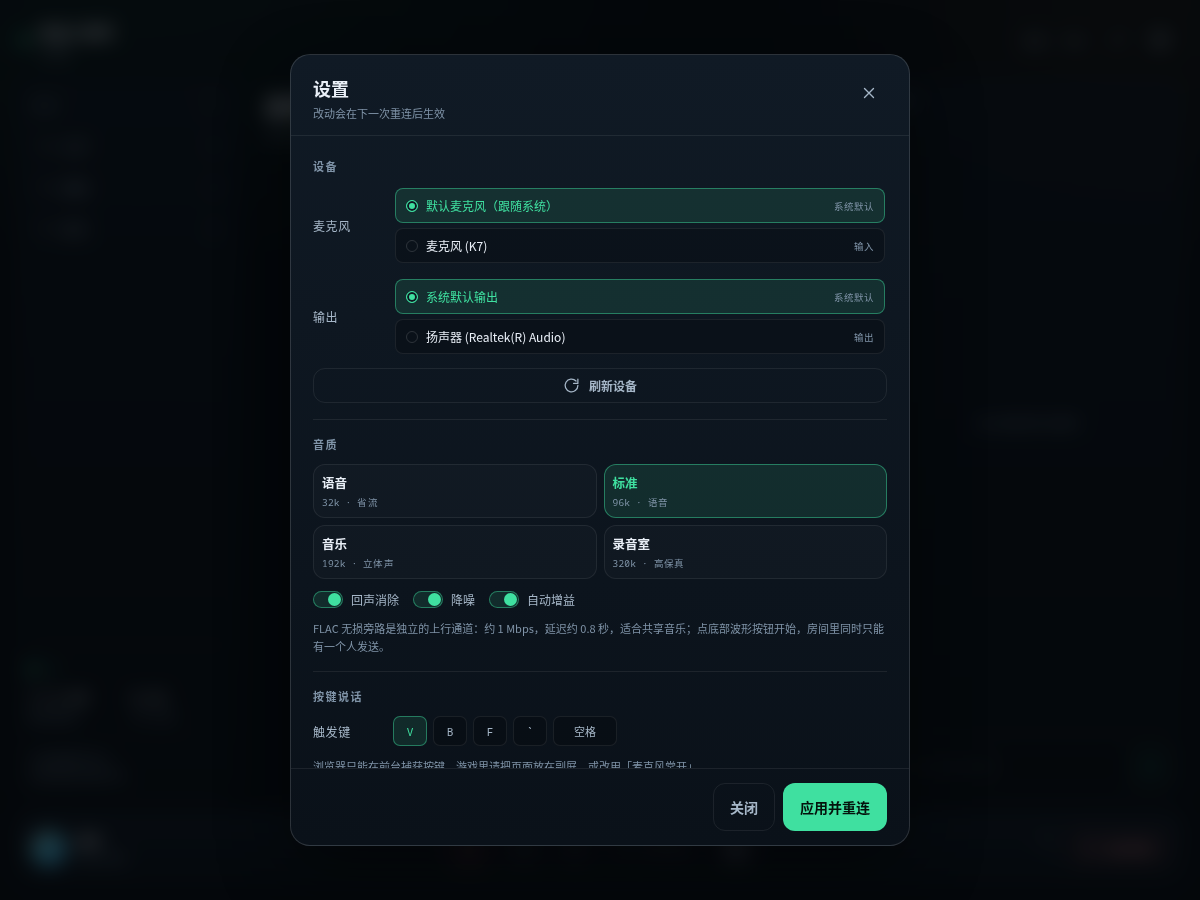
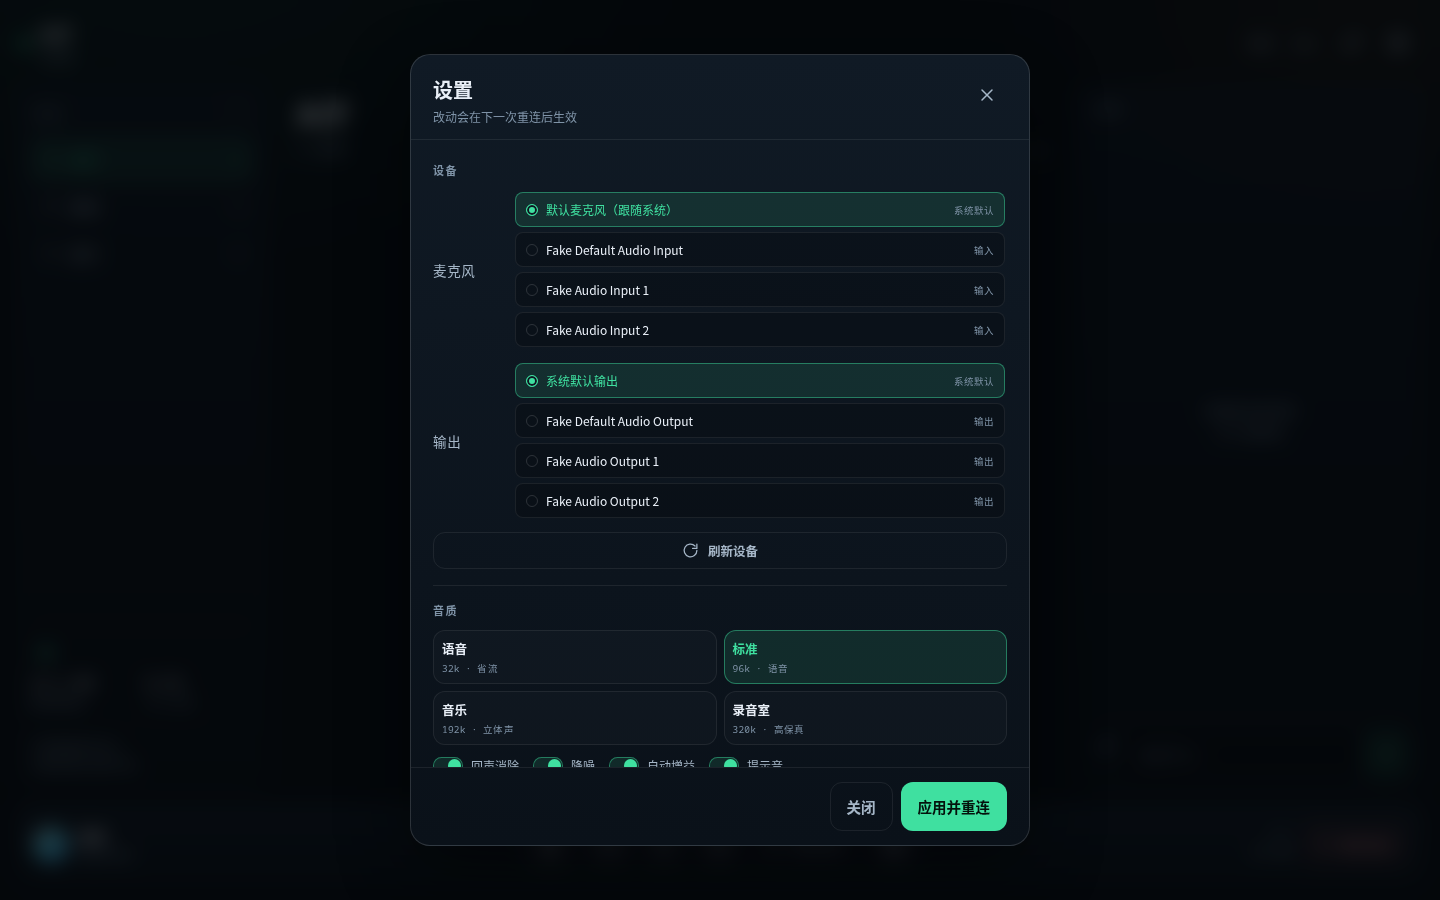
feat: add synthesized join and leave cues

diff --git a/web/app.js b/web/app.js
@@ -39,6 +39,7 @@ const app = {
     ec: store.get('ec', true),
     ns: store.get('ns', true),
     agc: store.get('agc', true),
+    sounds: store.get('sounds', true),
     screenFps: store.get('screenFps', 30),
     screenHeight: store.get('screenHeight', 1080),
     screenBitrate: store.get('screenBitrate', 4000),
@@ -479,6 +480,7 @@ function syncHardwareToggles() {
   $('#ec-toggle').checked = !!app.settings.ec;
   $('#ns-toggle').checked = !!app.settings.ns;
   $('#agc-toggle').checked = !!app.settings.agc;
+  $('#sounds-toggle').checked = !!app.settings.sounds;
   renderPttKeys();
 }
 
@@ -944,6 +946,7 @@ async function handleRoomJoined(msg) {
   $('#roomview').classList.remove('hidden');
   app.pendingRoomName = '';
   app.pendingRoomLocked = false;
+  playCue('enter');
   $('#room-confirm').classList.add('hidden');
   $('#room-empty').classList.add('hidden');
   $('#channels').classList.remove('open');
@@ -1048,6 +1051,7 @@ async function leaveRoom({ quiet = false } = {}) {
 }
 
 function logout() {
+  playCue('leave');
   resetScreen();
   app.manualClose = true;
   clearTimeout(app.reconnectTimer);
@@ -1220,12 +1224,14 @@ function onServerMessage(msg) {
       if (!app.joined || !msg.peer || msg.peer.id === app.me?.id) return;
       upsertPeer(msg.peer);
       addSystem(`${msg.peer.name} 加入了房间`);
+      playCue('enter');
       renderParticipants();
       break;
     case 'peer-left': {
       const peer = app.peers.get(msg.id);
       if (peer) {
         addSystem(`${peer.name} 离开了房间`);
+        playCue('leave');
         removePeer(msg.id);
       }
       break;
@@ -1489,6 +1495,31 @@ function getAudioCtx() {
   }
   if (app.audioCtx.state === 'suspended') app.audioCtx.resume().catch(() => {});
   return app.audioCtx;
+}
+
+// Short synthesized room cues: no audio files to download. The cue respects
+// the "提示音" setting and is skipped when the user is deafened.
+function playCue(kind) {
+  if (!app.settings.sounds || app.deafened) return;
+  try {
+    const ctx = getAudioCtx();
+    const now = ctx.currentTime + 0.01;
+    const notes = kind === 'leave' ? [659.25, 440] : [523.25, 659.25];
+    notes.forEach((freq, i) => {
+      const osc = ctx.createOscillator();
+      const gain = ctx.createGain();
+      osc.type = 'sine';
+      osc.frequency.setValueAtTime(freq, now + i * 0.11);
+      const t = now + i * 0.11;
+      gain.gain.setValueAtTime(0.0001, t);
+      gain.gain.exponentialRampToValueAtTime(0.075, t + 0.018);
+      gain.gain.exponentialRampToValueAtTime(0.0001, t + 0.16);
+      osc.connect(gain);
+      gain.connect(ctx.destination);
+      osc.start(t);
+      osc.stop(t + 0.18);
+    });
+  } catch { /* audio context may be unavailable */ }
 }
 
 function attachMeter(id, stream) {
@@ -2568,10 +2599,11 @@ async function applySettings() {
   app.settings.ec = $('#ec-toggle').checked;
   app.settings.ns = $('#ns-toggle').checked;
   app.settings.agc = $('#agc-toggle').checked;
+  app.settings.sounds = $('#sounds-toggle').checked;
   app.settings.pttKey = $('#ptt-key').dataset.value || 'v';
   app.settings.inputId = $('#input-device').dataset.value || '';
   app.settings.outputId = $('#output-device').dataset.value || '';
-  for (const k of ['ec', 'ns', 'agc', 'pttKey', 'inputId', 'outputId']) store.set(k, app.settings[k]);
+  for (const k of ['ec', 'ns', 'agc', 'sounds', 'pttKey', 'inputId', 'outputId']) store.set(k, app.settings[k]);
   syncHardwareToggles();
   updateQualityBadge();
   renderPtt();
@@ -2820,6 +2852,7 @@ function syncTestHook() {
     logout,
     sendChat: (text) => send({ t: 'chat', text }),
     setMuted: (v) => { app.muted = !!v; applyMicGate(); sendState(); },
+    playCue: (kind = 'enter') => playCue(kind),
     togglePtt: () => { app.settings.pttEnabled = !app.settings.pttEnabled; renderPtt(); },
   };
 }

diff --git a/web/index.html b/web/index.html
@@ -265,6 +265,7 @@
             <label class="switch"><input type="checkbox" id="ec-toggle" checked><i></i><span>回声消除</span></label>
             <label class="switch"><input type="checkbox" id="ns-toggle" checked><i></i><span>降噪</span></label>
             <label class="switch"><input type="checkbox" id="agc-toggle" checked><i></i><span>自动增益</span></label>
+            <label class="switch" title="进入 / 退出房间时播放提示音"><input type="checkbox" id="sounds-toggle" checked><i></i><span>提示音</span></label>
           </div>
           <p class="hint">FLAC 无损旁路是独立的上行通道：约 1 Mbps，延迟约 0.8 秒，适合共享音乐；点底部波形按钮开始，房间里同时只能有一个人发送。</p>
         </section>

diff --git a/web/styles.css b/web/styles.css
@@ -1345,3 +1345,5 @@ input, select { font-size: 14.5px; }
   .round.small { width: 42px; height: 42px; }
 }
 .auth-form .btn.primary { justify-content: center; }
+
+#settings-modal .modal-card { max-height: 94dvh; }

diff --git a/README.md b/README.md
@@ -47,6 +47,7 @@
 | **运维简单** | 无数据库、无 Redis、无 Node 运行时；systemd 一个服务，配置全在环境变量里 |
 | **HTTPS** | 内置 Let's Encrypt（ACME），也可用现成证书或反向代理 |
 | **诊断可见** | 服务端 RSS / CPU / 转发量实时显示在界面上；设置里有 RTT、抖动、丢包、码率 |
+| **提示音** | 进入 / 离开房间、他人进出时播放短提示音；设置里可关闭 |
 
 手机上的登录与房间：
 
